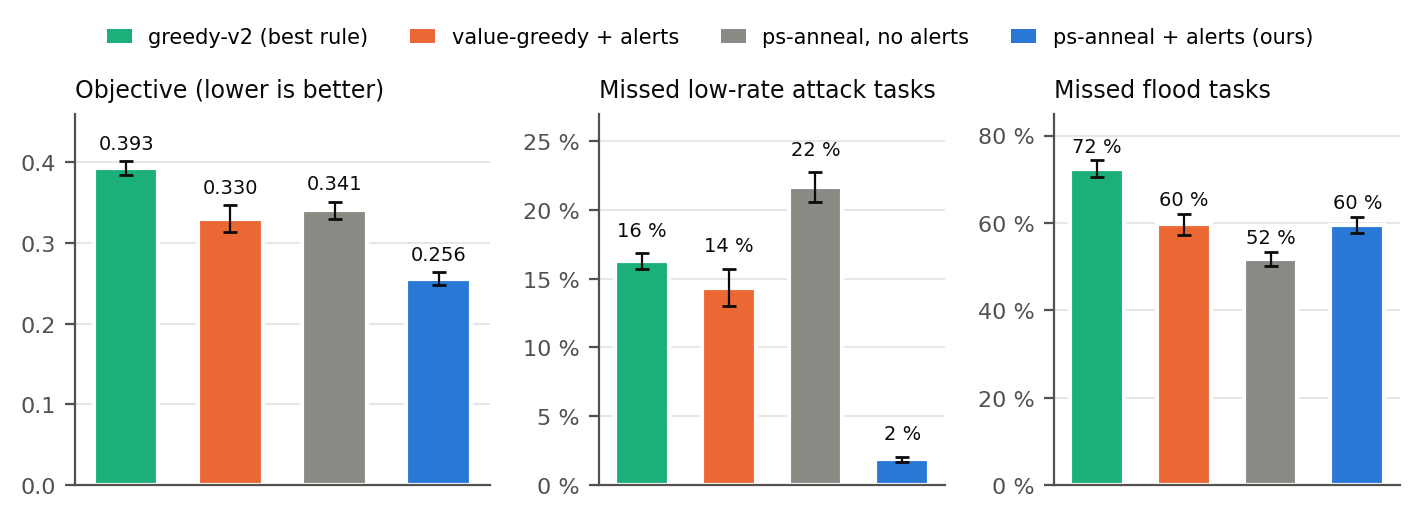
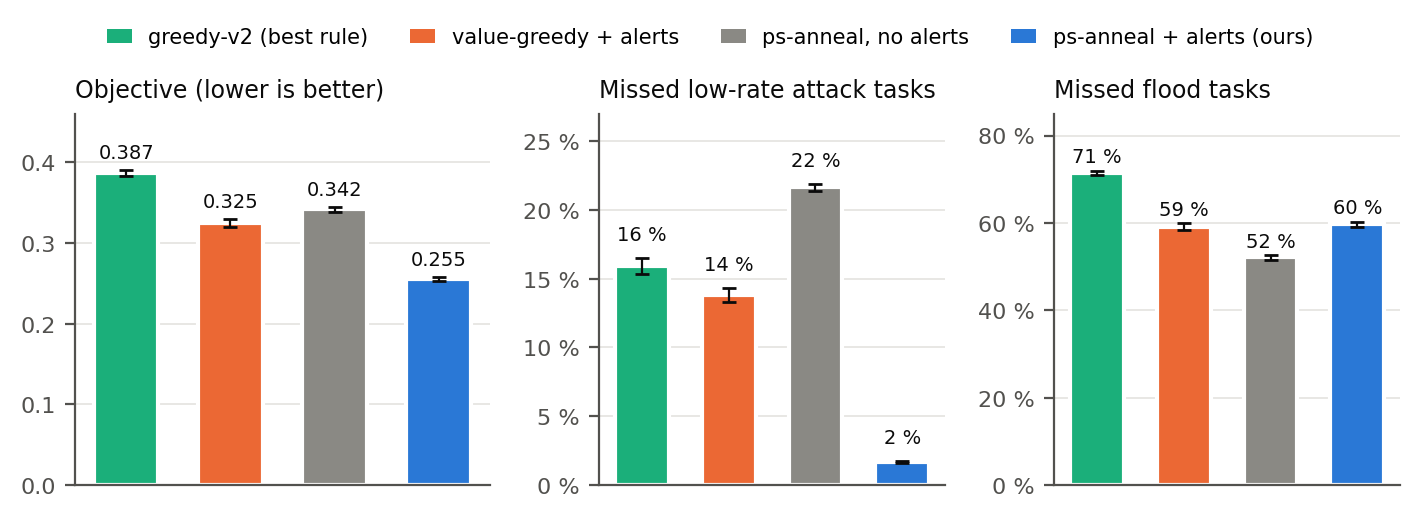
Overnight results: 20-seed iFogSim table, charged decision time, load curve, robustness in iFogSim

diff --git a/scripts/paper_figures.py b/scripts/paper_figures.py
@@ -77,7 +77,9 @@ def main_results(plt):
 def robustness(plt):
     rows = [r for r in load(ROOT / 'artifacts/robustness/runs.jsonl') if r['group'] == 'variant']
     panels = [
-        ('Traffic load', [('load-x2', 2), ('base', 3), ('load-x5', 5)], 'load (x base)', lambda v: f'x{v}'),
+        ('Traffic load', [(v, x) for v, x in (('load-x1', 1), ('load-x1.5', 1.5), ('load-x2', 2),
+                                              ('load-x2.5', 2.5), ('base', 3), ('load-x4', 4), ('load-x5', 5))
+                          if any(r['variant'] == v for r in rows)], 'load (x base)', lambda v: f'x{v:g}'),
         ('Feature-extraction cost', [('extract-1us', 1.0), ('extract-3us', 3.0), ('base', 7.5)],
          'µs per packet (M2)', lambda v: f'{v:g}'),
         ('Stream-separation error', [('separation-0', 0), ('base', 2), ('separation-5', 5)],
@@ -93,8 +95,9 @@ def robustness(plt):
             ax.errorbar(xs, [m for m, _ in stats], yerr=[h for _, h in stats], color=COLOR[p],
                         marker=MARKER[p], markersize=5, linewidth=2, capsize=2.5, elinewidth=0.8,
                         markeredgecolor='white', markeredgewidth=0.8, zorder=3)
-        ax.set_xticks(xs)
-        ax.set_xticklabels([fmt(x) for x in xs], fontsize=8, color=INK2)
+        ticks = [x for x in xs if float(x).is_integer()] if len(xs) > 4 else xs
+        ax.set_xticks(ticks)
+        ax.set_xticklabels([fmt(x) for x in ticks], fontsize=8, color=INK2)
         ax.set_xlabel(xlabel, fontsize=8, color=INK2)
         ax.set_title(title, fontsize=8.5, color=INK, loc='left')
         style(ax)

diff --git a/docs/smokescreen.md b/docs/smokescreen.md
@@ -320,6 +320,62 @@ flood detection; the loss comes from work carried across windows (low-risk tasks
 time. The tightest valid bound remains the fluid one (0.047); the best attainable
 reference is the online policy with oracle task values (0.229).
 
+## Overnight runs: 20 seeds, decision time, load curve, robustness in iFogSim
+
+All on an Apple M2 (`scripts/night_runs.sh`, 21 October 2026). Mean ± 95 % half-width;
+differences paired by seed.
+
+**Main comparison, iFogSim, x3, seeds 2–21** (final table for the paper):
+
+| Policy | Objective | Missed low-rate | Missed flood | Decision, ms (mean) |
+|---|---|---|---|---|
+| `greedy-v2` | 0.387 ± 0.004 | 0.159 | 0.714 | 19 |
+| `value-greedy-alerts` | 0.325 ± 0.005 | 0.138 | 0.591 | 33 |
+| `ps-anneal` | 0.342 ± 0.003 | 0.216 | 0.521 | 60 |
+| **`ps-anneal-alerts`** | **0.255 ± 0.003** | **0.017** | 0.597 | 58 |
+| `ps-anneal-oracle-value` (Python simulator) | 0.229 ± 0.002 | 0.019 | 0.540 | — |
+
+`ps-anneal-alerts` − `greedy-v2` = −0.132 ± 0.005 (every seed at least −0.110);
+− `value-greedy-alerts` = −0.070 ± 0.005 (at least −0.057); − `ps-anneal` = −0.087 ±
+0.002. The gap to the oracle values is 0.026 ± 0.001. The scheduler's own model predicts
+iFogSim's objective within 0.0002 for the annealing policies (0.006–0.010 for the
+greedy ones, whose estimator is coarser).
+
+**Decision time charged to the simulated clock** (iFogSim, x3, seeds 2–6; the policies
+plan with the delay they expect):
+
+| Policy | none | fixed 16 ms | fixed 50 ms | measured | decision mean / p95, ms |
+|---|---|---|---|---|---|
+| `greedy-v2` | 0.387 | 0.383 | 0.391 | 0.413 | 17 / 67 |
+| `value-greedy-alerts` | 0.325 | 0.336 | 0.358 | 0.411 | 29 / 107 |
+| `ps-anneal-alerts` (50 ms budget) | 0.255 | 0.267 | 0.292 | 0.300 | 58 / 84 |
+| `ps-anneal-alerts` (10 ms budget) | — | — | — | **0.270** | 16 / 27 |
+
+With its decision time charged, the method keeps a large lead: 0.270 (10 ms annealing
+budget) against 0.413 for `greedy-v2` and 0.411 for `value-greedy-alerts`, whose Python
+decisions take up to 107 ms at the 95th percentile. A 10 ms budget is the better
+operating point online: it loses nothing in quality without charged time (ablations) and
+its decisions stay below 27 ms in 95 % of epochs.
+
+**Load curve** (Python simulator, seeds 2–6): `ps-anneal-alerts` is the best of the three
+policies at every load from x1 to x5; its margin over `greedy-v2` is 8–15 points from x1
+to x3 and narrows to 8 points at x5, where every policy is capacity-bound (figure
+`docs/figures/robustness.png`). At x1 the expert anti-smokescreen rule (`stream-aware`,
+not in this sweep) remains better (0.010, section Screening): at low load the hard part
+is knowing that the flood stream can be sampled to 1 %, which that rule is told.
+
+**Robustness in iFogSim** (seeds 2–6): the Python results carry over.
+
+| Variant | `greedy-v2` | `value-greedy-alerts` | `ps-anneal` | `ps-anneal-alerts` | ours − `greedy-v2` (worst seed) |
+|---|---|---|---|---|---|
+| extraction 1 µs/packet | 0.415 | 0.335 | 0.192 | **0.088** | −0.327 (−0.307) |
+| separation error 5 % | 0.504 | 0.431 | 0.422 | **0.350** | −0.153 (−0.135) |
+| large topology (128 gateways) | 0.384 | 0.325 | 0.354 | **0.259** | −0.124 (−0.118) |
+
+**Training data** for a learned value estimate: seeds 7–26 in `artifacts/value-data/`
+(every epoch model with estimated and oracle option values, task features and
+outcomes; not in git, about 90 MB).
+
 ## Next
 
 - A bound that carries work across windows (the per-window processor-sharing bound
